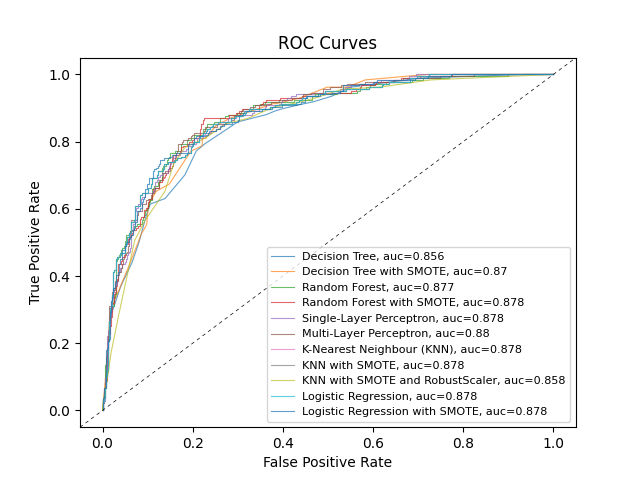
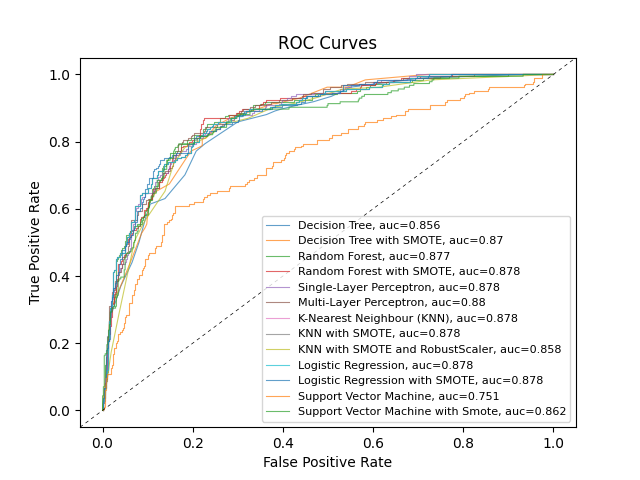
new ROC

diff --git a/telco.py b/telco.py
@@ -172,4 +172,6 @@ if __name__ == "__main__":
         "knn_pred_prob+smote+robustscaler.csv": "KNN with SMOTE and RobustScaler",
         "LGR_pred_prob.csv": "Logistic Regression",
         "LGR_pred_prob+smote.csv": "Logistic Regression with SMOTE",
+        "new+svm.csv": "Support Vector Machine",
+        "new+smote+svm.csv": "Support Vector Machine with Smote"
     })
